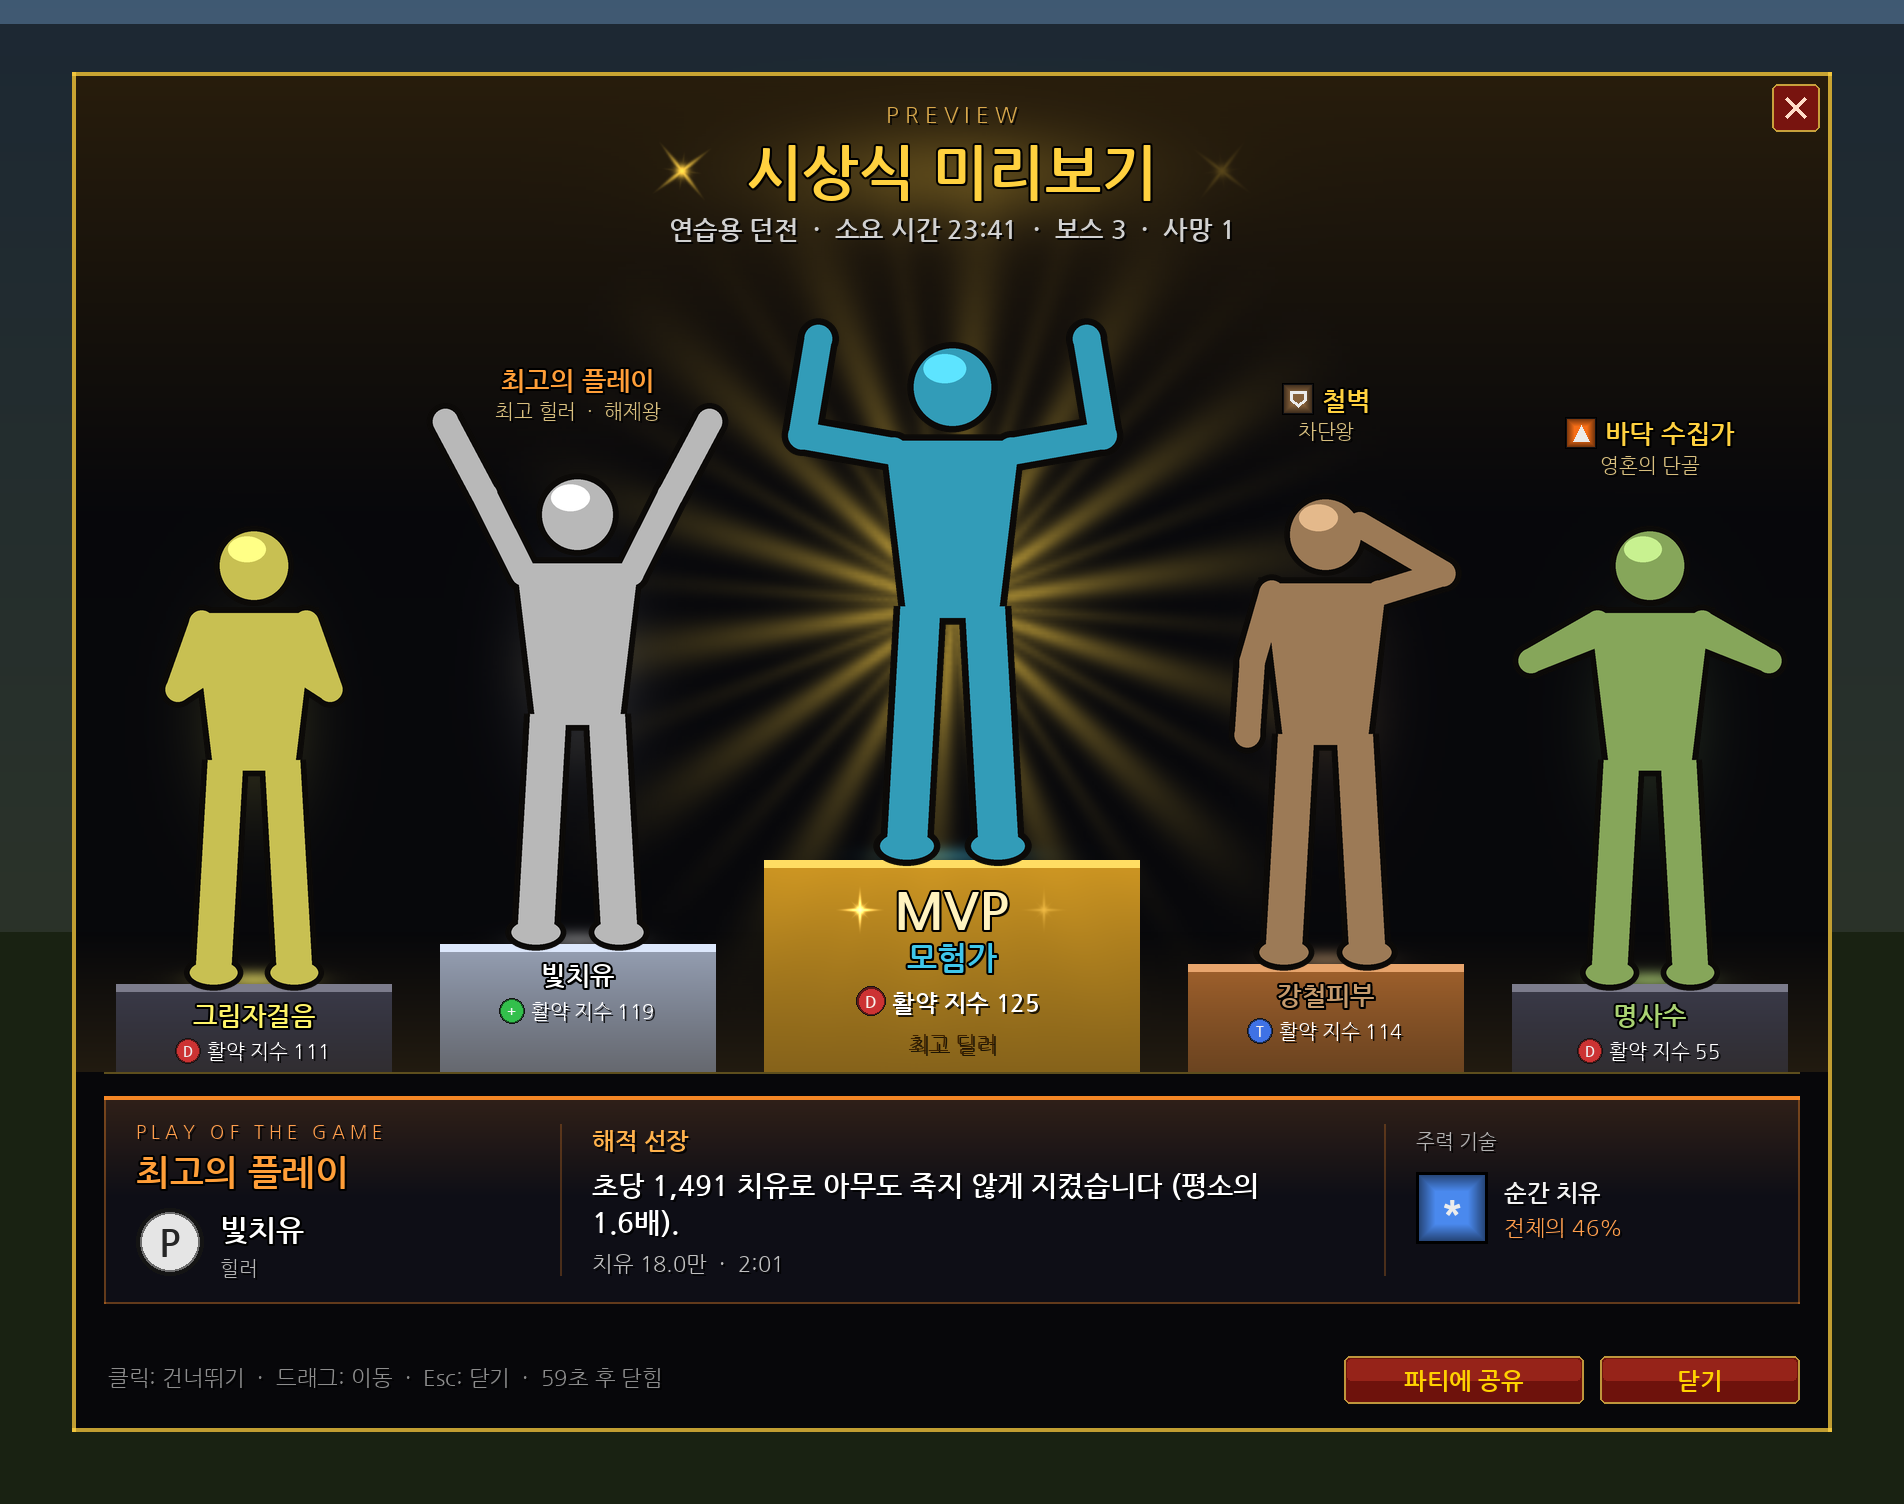
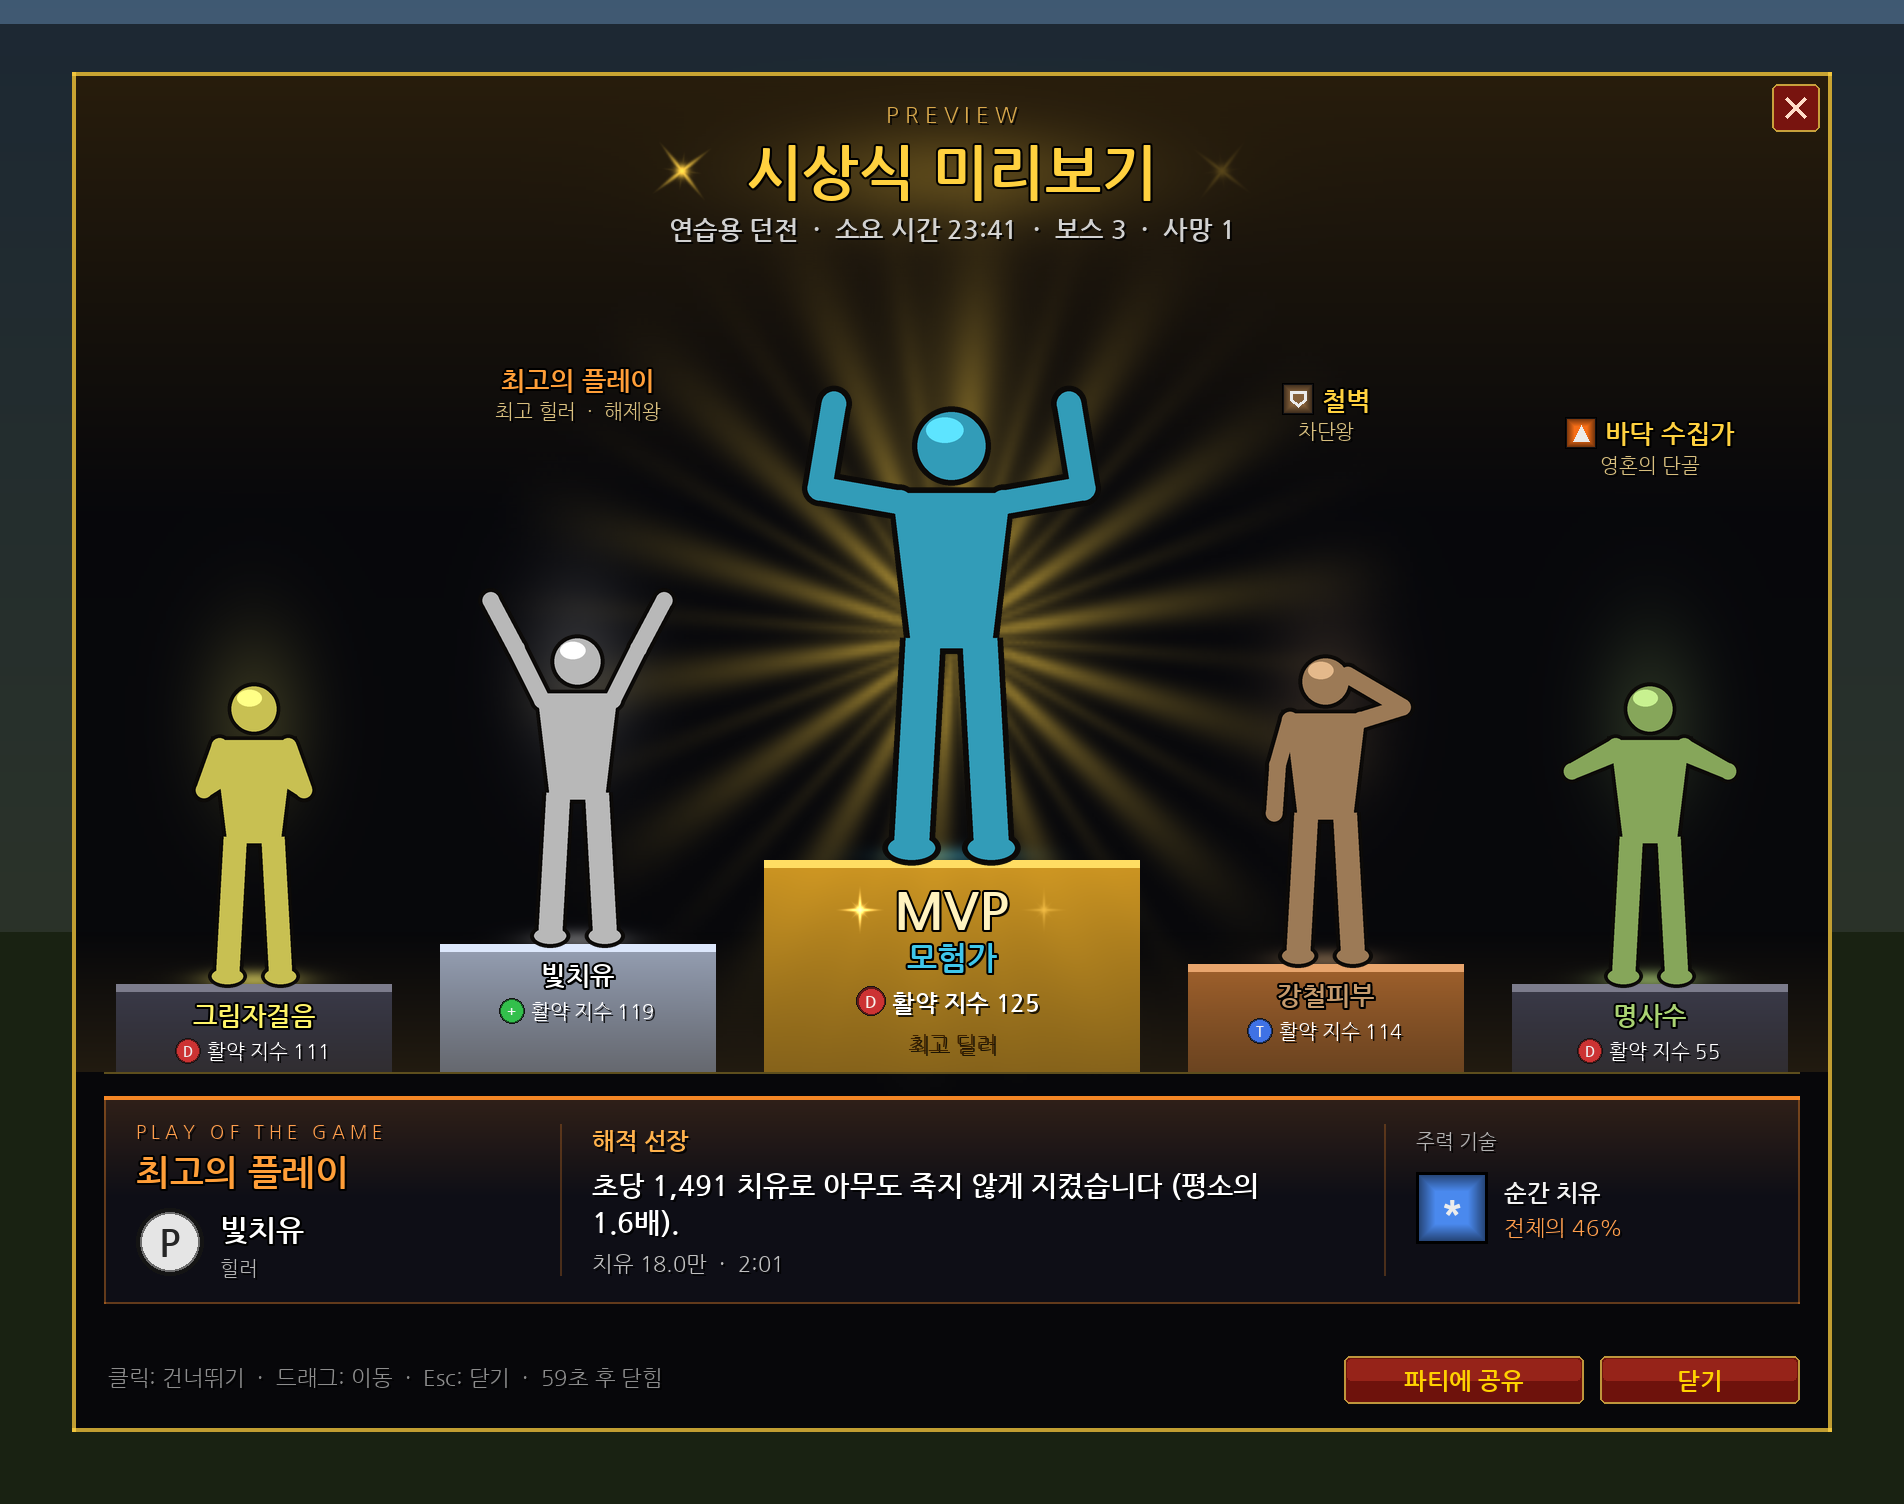
Podium: bigger MVP; the old "-40" character height is the new 0
- Only the MVP in the middle is bigger (character height 255 -> 340,
  about a third larger); the others are unchanged.
- In game the characters stood right with the height option at -40, so
  that correction is now built in: the space under a character's feet
  is taken as 28% of its model frame (FEET_MARGIN) and the frame is
  sunk into the step by that much. The option stays at 0 by default;
  a saved -40 from 1.2.1 becomes 0 (other saved values shift by +40 to
  keep their look, a saved 0 stays 0).
- The MVP's size limit (stay below the header) and the light rays use
  the character's real visible height. The preview renderer draws the
  figures with the same in-game framing.

Claude-Session: https://claude.ai/code/session_01JKP9zMQp4aPNnandWMvKrB

diff --git a/tools/render_podium_preview.py b/tools/render_podium_preview.py
@@ -189,7 +189,7 @@ local function draw(f)
         local item = items[#items]
         local p = f.parent.player
         item.class, item.animation, item.facing = p and p.class, f.animation, f.facing
-        item.fill = ns.Ceremony.MODEL_FILL
+        item.margin = ns.Ceremony.FEET_MARGIN
         item.alpha = item.alpha * (f.modelAlpha or 1)
     end
     local regions = {}
@@ -458,11 +458,12 @@ def draw_model(canvas, item):
     W, H = w * ss, h * ss
     img = Image.new("RGBA", (W, H), (0, 0, 0, 0))
     d = ImageDraw.Draw(img)
-    # The addon sizes the frame so the character fills MODEL_FILL of its
-    # height with the rest split above and below (feet on the step top).
-    fill = item["fill"] or 0.8
-    fh = fill * H / 0.95  # the figure's head top is at 0.95
-    base = H - (1 - fill) / 2 * H
+    # In game the character leaves FEET_MARGIN of the frame's height empty
+    # under its feet (and about the same above its head); the addon sinks
+    # the frame into the step by that much.
+    margin = item["margin"] or 0.1
+    fh = (1 - 2 * margin) * H / 0.95  # the figure's head top is at 0.95
+    base = H - margin * H
     pose = POSES.get(int(item["animation"] or 0), {})
     lean = pose.get("lean", 0)
 

diff --git a/README.md b/README.md
@@ -19,7 +19,7 @@ AOS 게임이 끝나면 나오는 MVP / POTG 화면처럼, **던전을 클리어
 
 ## 시상식 화면
 
-**단상(포디움)** 위에 파티원 **각자의 캐릭터**가 올라가서 결과에 맞는 **감정표현**을 합니다. 가운데 가장 높은 금색 단상이 MVP, 그 양옆이 2·3등(은·동), 바깥쪽이 4·5등입니다 (활약 지수 순서). 단상 앞에는 이름과 활약 지수, 머리 위에는 받은 상이 표시됩니다.
+**단상(포디움)** 위에 파티원 **각자의 캐릭터**가 올라가서 결과에 맞는 **감정표현**을 합니다. 가운데 가장 높은 금색 단상이 MVP(다른 사람보다 크게 나옵니다), 그 양옆이 2·3등(은·동), 바깥쪽이 4·5등입니다 (활약 지수 순서). 단상 앞에는 이름과 활약 지수, 머리 위에는 받은 상이 표시됩니다.
 
 | 받은 상 | 감정표현 |
 | --- | --- |
